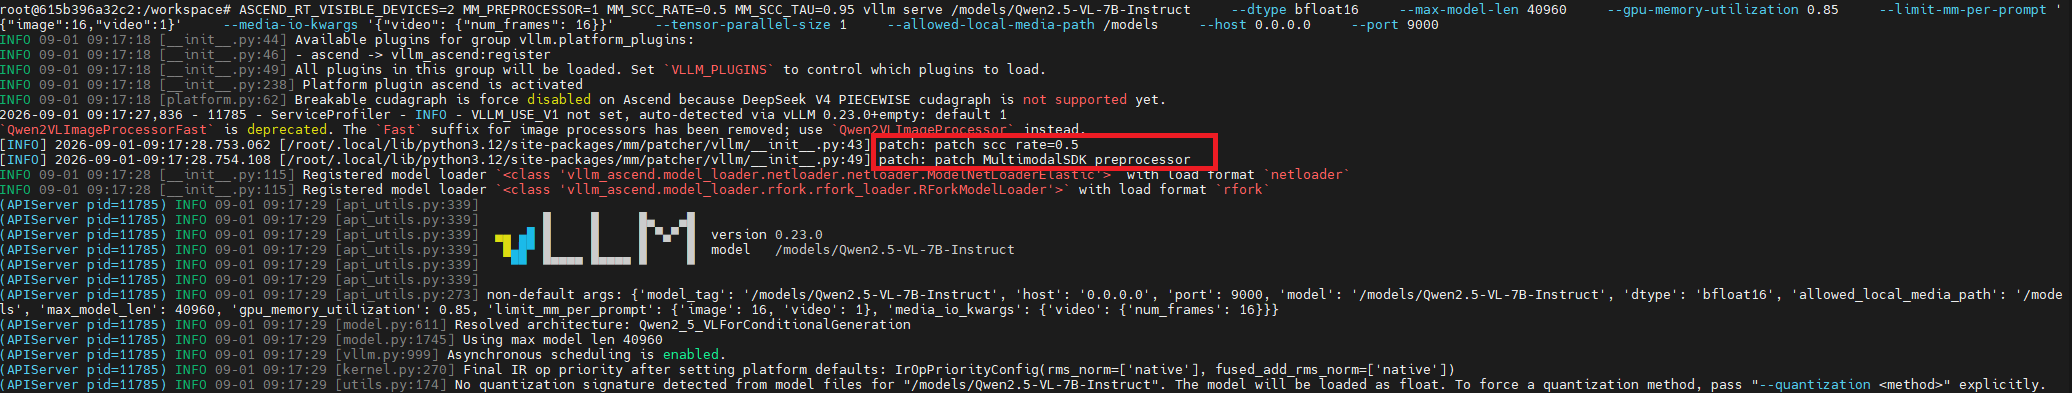
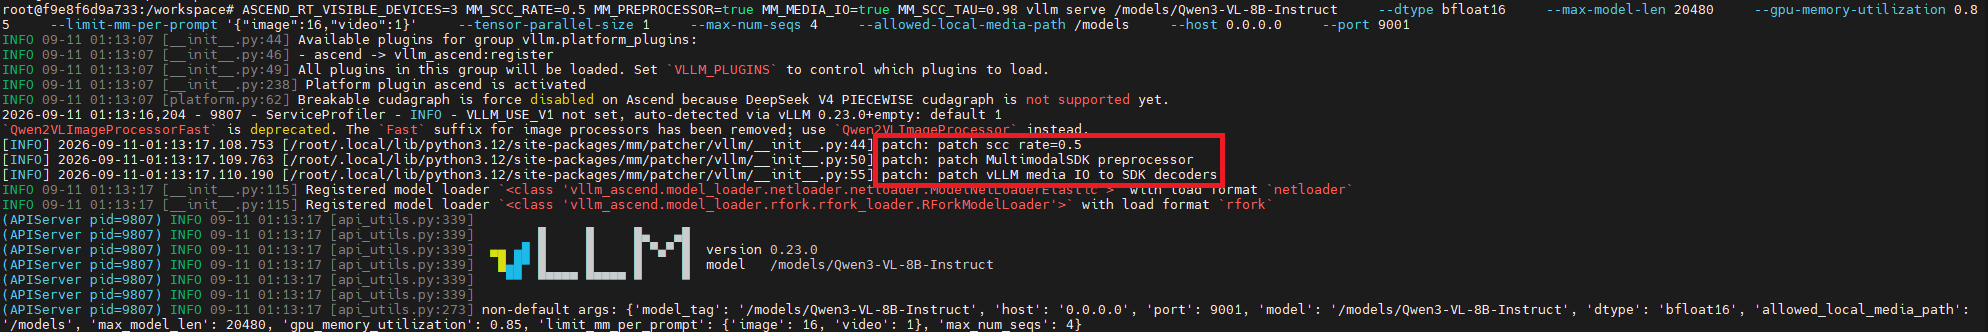
修改qwen3 scc和文档优化

Changed region(s): [[0.0, 0.0, 0.998, 1.0]]

diff --git a/MultimodalSDK/source/mm/patcher/vllm/patch_qwen3_vl.py b/MultimodalSDK/source/mm/patcher/vllm/patch_qwen3_vl.py
@@ -190,9 +190,7 @@ def _qwen3_process_image_input(self, image_input: Qwen2_5_VLImageInputs):
 
     for emb, size in zip(image_embeds_split, grid_thw):
         if scc_should_run(emb.shape[0], MM_SCC_MAX_TOKENS_PER_ITEM):
-            r = scc_compress_to_target(emb, scc_shrink(emb.shape[0], MM_SCC_RATE), 1, 0, MM_SCC_TAU, MM_SCC_EPSILON)
-
-            emb = r
+            emb = emb[set_uniform_true(emb.shape[0], scc_shrink(emb.shape[0], MM_SCC_RATE))]
             image_embeds_out.append(emb)
         else:
             image_embeds_out.append(emb)

diff --git a/docs/zh/05_api/patcher.md b/docs/zh/05_api/patcher.md
@@ -72,7 +72,7 @@ Multimodal SDK 历史上针对 **vllm-ascend** 各版本提供过不同的 patch
 
 ## 启动 vLLM
 
-设置好环境变量之后，**直接使用原生的 `vllm serve` 命令即可**，无需任何额外 SDK 侧参数。例如，启用 SCC + 预处理加速跑 Qwen3-VL-8B-Instruct：
+设置好环境变量之后，**直接使用原生的 `vllm serve` 命令即可**，无需任何额外 SDK 侧参数。例如，启用 SCC + 预处理加速运行 Qwen3-VL-8B-Instruct：
 
 ```bash
 MM_SCC_RATE=0.5 \
@@ -99,6 +99,65 @@ vllm serve /models/Qwen3-VL-8B-Instruct \
 如下图所示，启动日志中包含 SCC 视觉 token 压缩已注入（`MM_SCC_RATE < 1.0`）的提示行。
 
 ![scc_patch_log](../figures/patch_apply.png)
+
+---
+
+## 媒体解码加速的文件要求与请求示例
+
+开启 `MM_MEDIA_IO=true` 后，vLLM 的视频 / 图像解码统一走 SDK 解码器（替换 `VideoMediaIO` / `ImageMediaIO`），对请求中的媒体文件有以下要求：
+
+| 媒体类型 | 支持格式 | 说明 |
+| --- | --- | --- |
+| 图片 | jpg / jpeg | 其他格式（png / bmp / webp 等）不在 SDK 解码器支持范围内，请求会返回错误。 |
+| 视频 | mp4 | 其他容器（avi / mkv / mov 等）不在 SDK 解码器支持范围内，请求会返回错误。 |
+
+补充说明：
+
+- 使用 `file://` 需在启动 vLLM 时指定 `--allowed-local-media-path`，将媒体文件所在目录加入白名单，否则 vLLM 会拒绝访问本地文件。例如媒体文件放在 `/data` 下：`--allowed-local-media-path /data`。
+- 媒体文件权限不应高于 640。
+- patch 层会校验文件存在性，文件不存在时直接报错，不会回退到原生解码。
+
+### 图片请求示例
+
+通过 OpenAI 兼容接口发送带图片的请求，`image_url` 使用 `file://` 协议指向服务端本地 jpg / jpeg 文件：
+
+```bash
+curl http://localhost:9000/v1/chat/completions \
+    -H "Content-Type: application/json" \
+    -d '{
+        "model": "/models/Qwen3-VL-8B-Instruct",
+        "messages": [
+            {
+                "role": "user",
+                "content": [
+                    {"type": "image_url", "image_url": {"url": "file:///data/images/dog.jpg"}},
+                    {"type": "text", "text": "描述这张图片的内容"}
+                ]
+            }
+        ]
+    }'
+```
+
+### 视频请求示例
+
+视频请求使用 `video_url` 类型，同样以 `file://` 协议指向服务端本地 mp4 文件：
+
+```bash
+curl http://localhost:9000/v1/chat/completions \
+    -H "Content-Type: application/json" \
+    -d '{
+        "model": "/models/Qwen3-VL-8B-Instruct",
+        "messages": [
+            {
+                "role": "user",
+                "content": [
+                    {"type": "video_url", "video_url": {"url": "file:///data/videos/demo.mp4"}},
+                    {"type": "text", "text": "描述这段视频的内容"}
+                ]
+            }
+        ]
+    }'
+```
 
 ---
 
